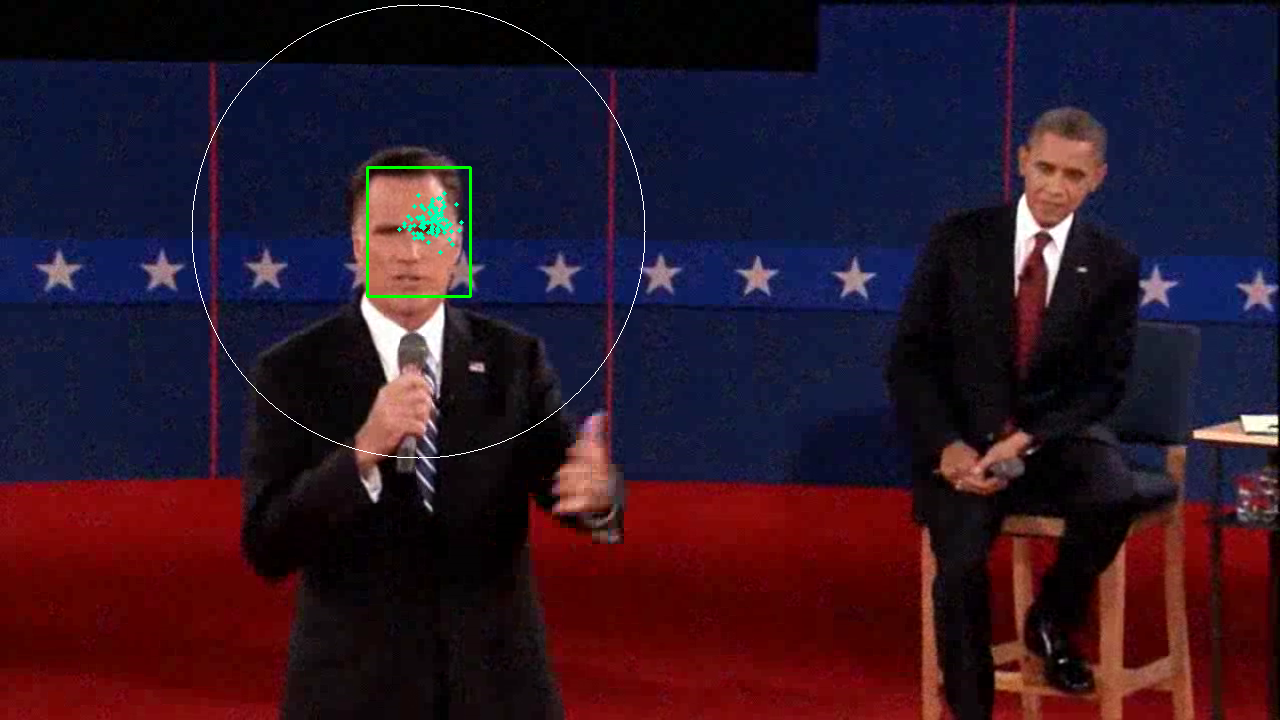
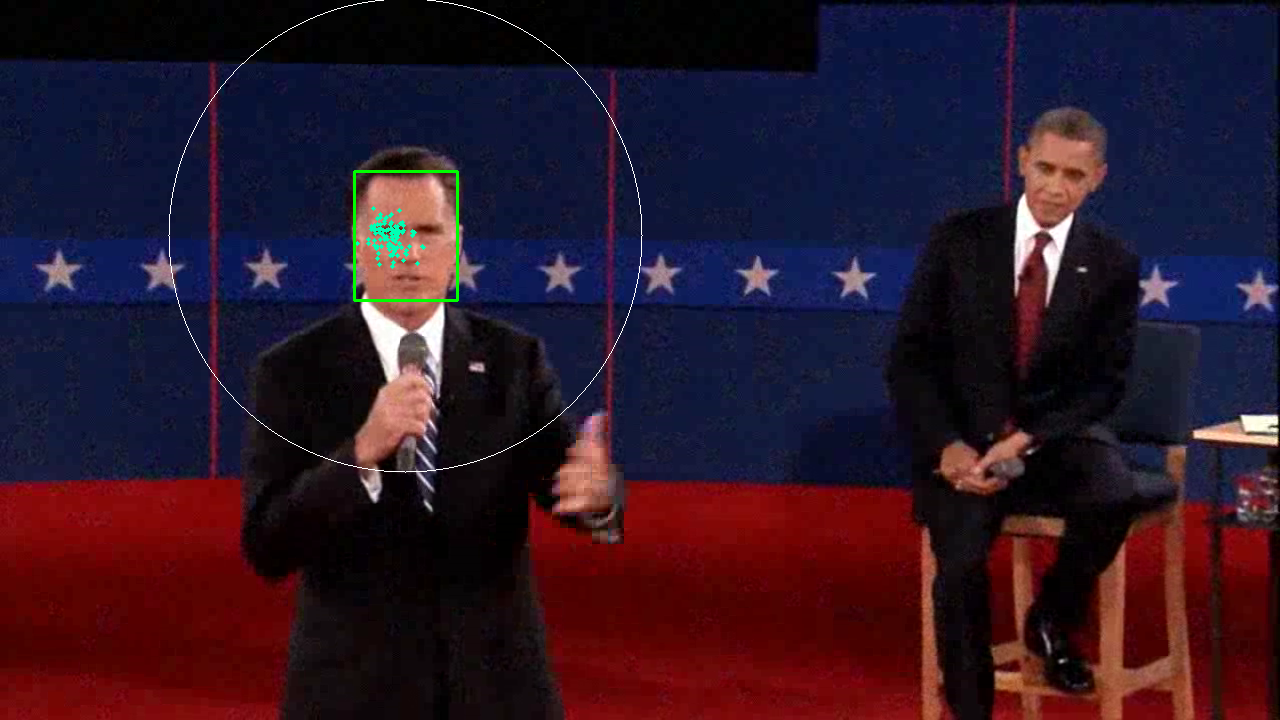
Optimize naive particle filter tracker a bit

Changed region(s): [[0.2812, 0.2139, 0.375, 0.4278]]

diff --git a/ps6_python/naive_pf_tracker.py b/ps6_python/naive_pf_tracker.py
@@ -37,19 +37,18 @@ class NaivePFTracker:
         noisy_control = control + np.random.normal(0, self.control_noise,
                                                    (self.num_particles, 2))
         # sample x_t^i from p(x_t | x_t-1, u_t) using x_t^j and u_t
-        new_particles = self.particles[j] + noisy_control
+        new_particles = np.array(self.particles[j] + noisy_control)
         # clip particles in case the window goes out of the image limits
         new_particles[:,0] = np.clip(new_particles[:,0], mh/2, sh - mh/2 - 1)
         new_particles[:,1] = np.clip(new_particles[:,1], mw/2, sw - mw/2 - 1)
-
-        # resampling loop
-        for i in range(self.num_particles):
-            # get patch corresponding to particle i
-            miny = int(new_particles[i,0] - mh/2); maxy = miny + mh
-            minx = int(new_particles[i,1] - mw/2); maxx = minx + mw
-            candidate = img[miny:maxy, minx:maxx]
-            # compute importance weight - similarity of patch to model
-            new_weights[i] = similarity(candidate, self.model, self.sim_std)
+        # get patches corresponding to particle i
+        miny = (new_particles[:,0] - mh/2).astype(np.int); maxy = miny + mh
+        minx = (new_particles[:,1] - mw/2).astype(np.int); maxx = minx + mw
+        candidates = [img[miny[i]:maxy[i], minx[i]:maxx[i]]
+                      for i in range(self.num_particles)]
+        # compute importance weight - similarity of each patch to the model
+        new_weights = np.array([similarity(cand, self.model, self.sim_std)
+                               for cand in candidates])
 
         # normalize new weights
         new_weights /= np.sum(new_weights)
@@ -61,8 +60,10 @@ class NaivePFTracker:
         # estimate current state - weighted mean of particle states
         self.state = (self.particles * self.weights.reshape((-1, 1))).sum(0)
 
-        # draw results on img
-        #  self.visualize_filter(img)
+    def visualize_filter(self, img):
+        self.draw_particles(img)
+        self.draw_window(img)
+        self.draw_std(img)
 
     def draw_particles(self, img):
         for p in self.particles:
@@ -80,7 +81,3 @@ class NaivePFTracker:
         cv2.circle(img, tuple(self.state[::-1].astype(np.int)),
                    int(weighted_sum), (255,255,255), 1)
 
-    def visualize_filter(self, img):
-        self.draw_particles(img)
-        self.draw_window(img)
-        self.draw_std(img)

diff --git a/ps6_python/naive_pf_tracker_demo.py b/ps6_python/naive_pf_tracker_demo.py
@@ -3,7 +3,9 @@ import numpy as np
 import time
 from naive_pf_tracker import *
 
-def naive_pf_tracker_demo(videofile, frames_to_save=[], infix='a', play_video=True):
+def naive_pf_tracker_demo(videofile, frames_to_save=[], infix='a',
+                          play_video=True, num_particles=100, dimensions=2,
+                          control=10, noise=10, sim_std=20):
     cap = cv2.VideoCapture('input/' + videofile + '.avi')
 
     # retrieve first frame
@@ -22,7 +24,8 @@ def naive_pf_tracker_demo(videofile, frames_to_save=[], infix='a', play_video=Tr
     cv2.imwrite('output/ps6-1-' + infix +'-1.png', frame[miny:maxy, minx:maxx])
 
     # create tracker
-    tracker = NaivePFTracker(model, search_space, 100, 2, 10, 10, 20)
+    tracker = NaivePFTracker(model, search_space, num_particles, dimensions,
+                             control, noise, sim_std)
 
     count = 1  # a frame has already been retrieved
     save_count=0  # count of the highlighted frames that will be saved

diff --git a/ps6_python/ps6.py b/ps6_python/ps6.py
@@ -15,10 +15,14 @@ videos = ['pres_debate', 'noisy_debate', 'pedestrians']
 # 1. Particle Filter Tracking
 # ================================
 def ps6_1_a():
-    naive_pf_tracker_demo(videos[0], [28,84,144], 'a', play_video=True)
+    naive_pf_tracker_demo(videos[0], [28,84,144], 'a', play_video=True,
+                         num_particles=100, dimensions=2, control=10, noise=10,
+                         sim_std=30)
 
 def ps6_1_e():
-    naive_pf_tracker_demo(videos[1], [14,32,46], 'e', play_video=True)
+    naive_pf_tracker_demo(videos[1], [14,32,46], 'e', play_video=True,
+                          num_particles=100, dimensions=2, control=10, noise=10,
+                          sim_std=20)
 
 # TODO 2. Appearance Model Update
 # ===============================

diff --git a/ps6_python/test.py b/ps6_python/test.py
@@ -1,0 +1,14 @@
+import time
+import numpy as np
+
+start = time.time()
+a = np.zeros(1000)
+for i in range(1000):
+    a[i] = i
+period = time.time()-start
+
+start2 = time.time()
+a = [i for i in range(1000)]
+period2 = time.time()-start2
+print(period, period2)
+print('relation: %f'%float(period/period2))

diff --git a/ps6_python/README.md b/ps6_python/README.md
@@ -1,9 +1,15 @@
 # Problem Set 6: Particle Tracking
 
-###1. Particle Filter Tracking
-<!-- ##### a) X and Y image gradients  -->
-<!-- <img src="input/simA.jpg" width="200"> -->
-<!-- <img src="output/ps4-1-a-1.png" width="400">   -->
+###1. (Naive) Particle Filter Tracking
+##### a) Tracking Romney's face in pres_debate.avi (displayed frames: 28, 84, 144)
+<img src="output/ps4-1-a-1.png" width="200">  
+<img src="output/ps4-1-a-2.png" width="200">
+<img src="output/ps4-1-a-3.png" width="200">
+<img src="output/ps4-1-a-4.png" width="200">
+#### e) Tracking Romney's face in noisy_debate.avi (displayed frames: 14, 32, 46)
+<img src="output/ps4-1-e-1.png" width="200">
+<img src="output/ps4-1-e-2.png" width="200">
+<img src="output/ps4-1-e-3.png" width="200">
 
 ###2. Appearance Model Update
 ###3. Mean Shift Lite
